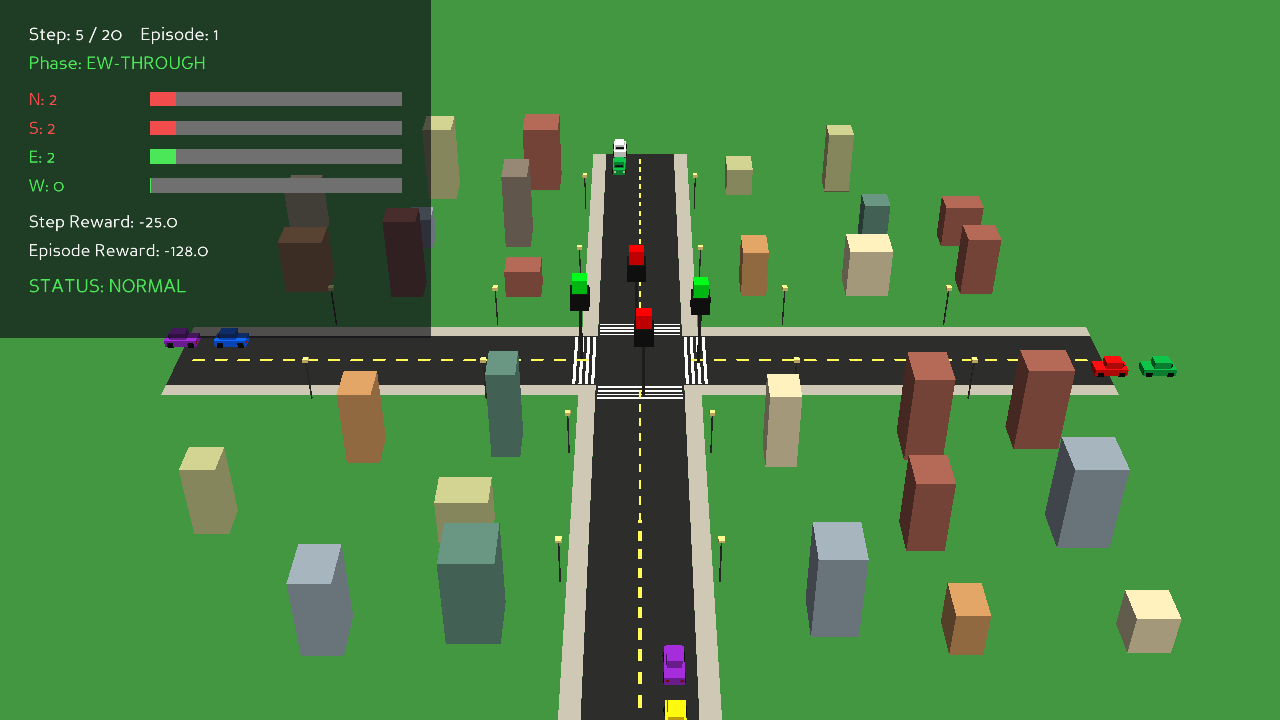
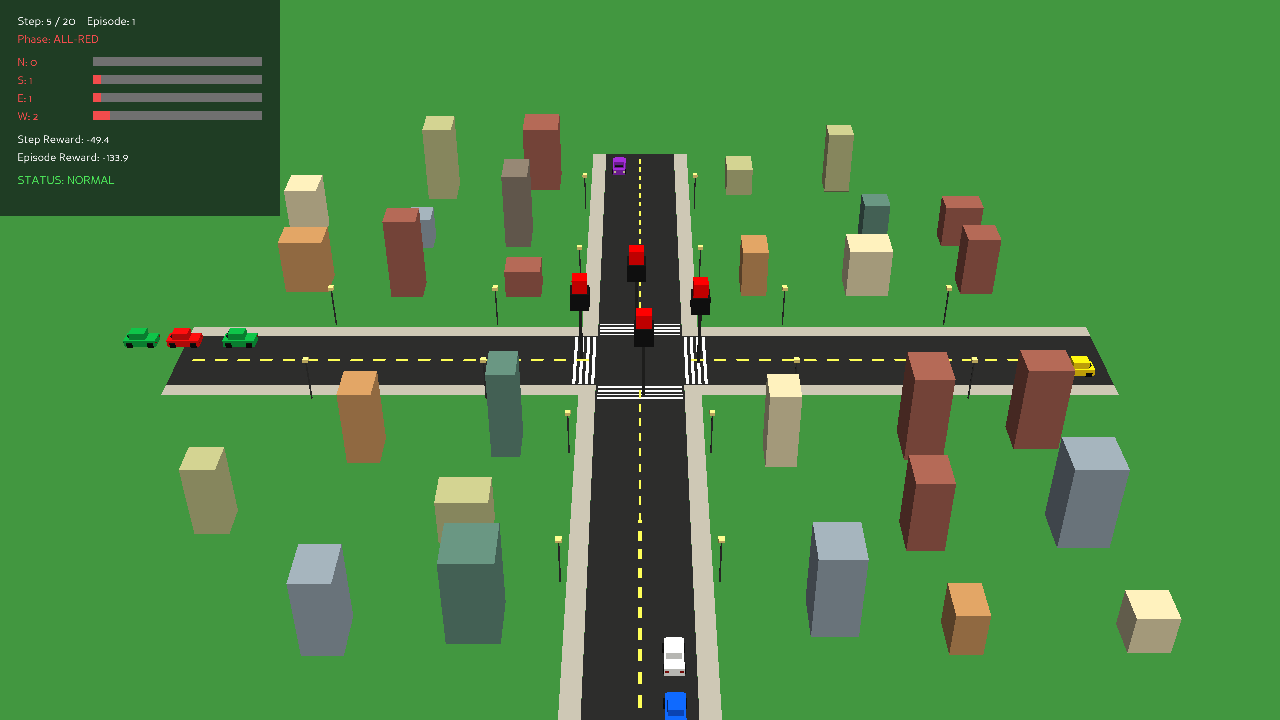
Revert ground color to green, shrink HUD, rewrite README

diff --git a/environment/rendering.py b/environment/rendering.py
@@ -340,8 +340,8 @@ class TrafficRenderer(ShowBase):
         return node
 
     def _build_hud(self):
-        panel_left, panel_right = -1.78, -0.58
-        panel_top, panel_bottom = 1.0, 0.06
+        panel_left, panel_right = -1.78, -1.00
+        panel_top, panel_bottom = 1.0, 0.40
 
         self.hud_root = self.aspect2d.attachNewNode("hud")
 
@@ -352,11 +352,11 @@ class TrafficRenderer(ShowBase):
             pos=(0, 0, 0),
         )
 
-        text_x = panel_left + 0.08
-        line_height = 0.08
-        y = [panel_top - 0.11]
+        text_x = panel_left + 0.05
+        line_height = 0.05
+        y = [panel_top - 0.068]
 
-        def add_line(scale=0.05, fg=HUD_TEXT_COLOR):
+        def add_line(scale=0.031, fg=HUD_TEXT_COLOR):
             node = OnscreenText(
                 text="",
                 pos=(text_x, y[0]),
@@ -372,25 +372,25 @@ class TrafficRenderer(ShowBase):
         self.hud_step_text = add_line()
         self.hud_phase_text = add_line()
 
-        y[0] -= 0.02
-        bar_x = text_x + 0.34
-        self.hud_bar_max_width = panel_right - bar_x - 0.08
-        bar_height = 0.04
+        y[0] -= 0.014
+        bar_x = text_x + 0.21
+        self.hud_bar_max_width = panel_right - bar_x - 0.05
+        bar_height = 0.025
 
         self.hud_queue_texts = {}
         self.hud_bar_fills = {}
         for d in DIRECTIONS:
             line_y = y[0]
-            self.hud_queue_texts[d] = add_line(scale=0.048)
-            self._make_2d_rect(self.hud_root, bar_x, line_y + 0.015, self.hud_bar_max_width, bar_height, (0.3, 0.3, 0.3, 0.8))
-            self.hud_bar_fills[d] = self._make_2d_rect(self.hud_root, bar_x, line_y + 0.015, 0.001, bar_height, HUD_GREEN)
+            self.hud_queue_texts[d] = add_line(scale=0.03)
+            self._make_2d_rect(self.hud_root, bar_x, line_y + 0.01, self.hud_bar_max_width, bar_height, (0.3, 0.3, 0.3, 0.8))
+            self.hud_bar_fills[d] = self._make_2d_rect(self.hud_root, bar_x, line_y + 0.01, 0.001, bar_height, HUD_GREEN)
 
-        y[0] -= 0.02
-        self.hud_step_reward_text = add_line(scale=0.048)
-        self.hud_episode_reward_text = add_line(scale=0.048)
+        y[0] -= 0.014
+        self.hud_step_reward_text = add_line(scale=0.03)
+        self.hud_episode_reward_text = add_line(scale=0.03)
 
-        y[0] -= 0.02
-        self.hud_status_text = add_line(scale=0.052, fg=HUD_GREEN)
+        y[0] -= 0.014
+        self.hud_status_text = add_line(scale=0.032, fg=HUD_GREEN)
 
     def _update_hud(self, observation, action, step_count, max_steps, reward, gridlock_threshold):
         queue_lengths = {d: observation[i] for i, d in enumerate(DIRECTIONS)}
